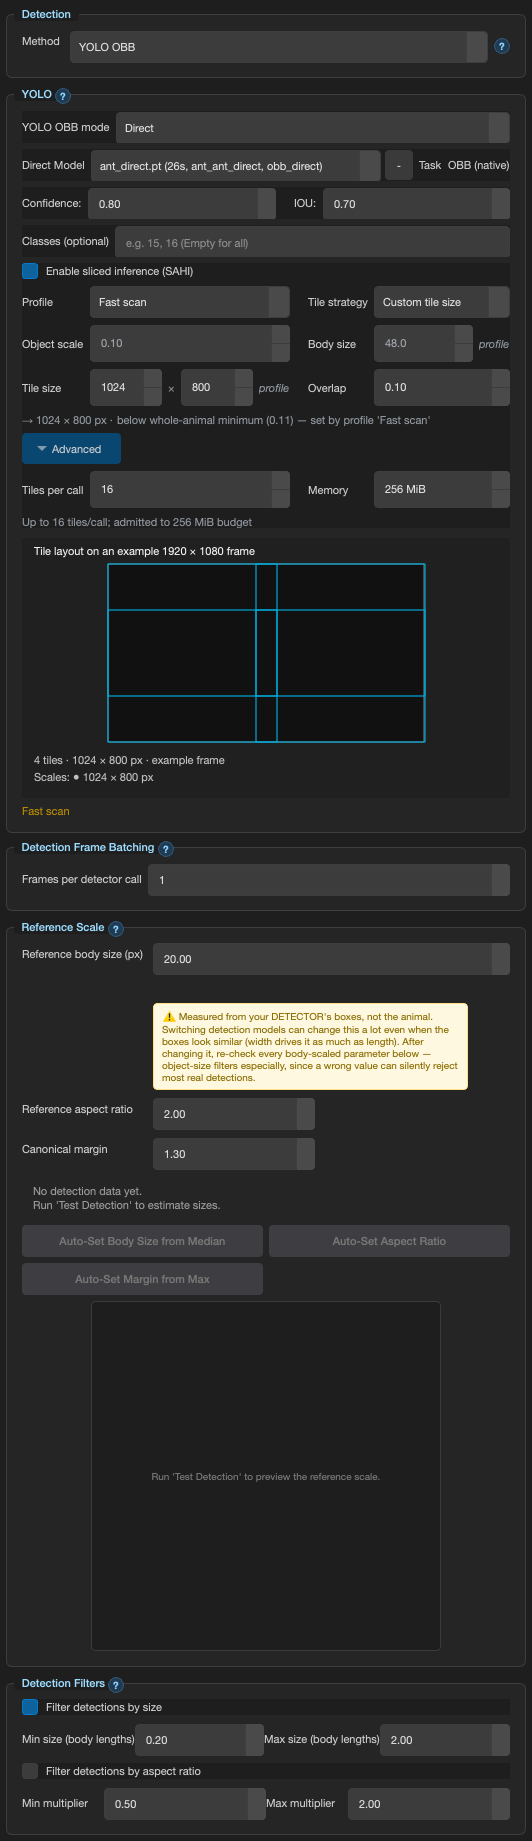
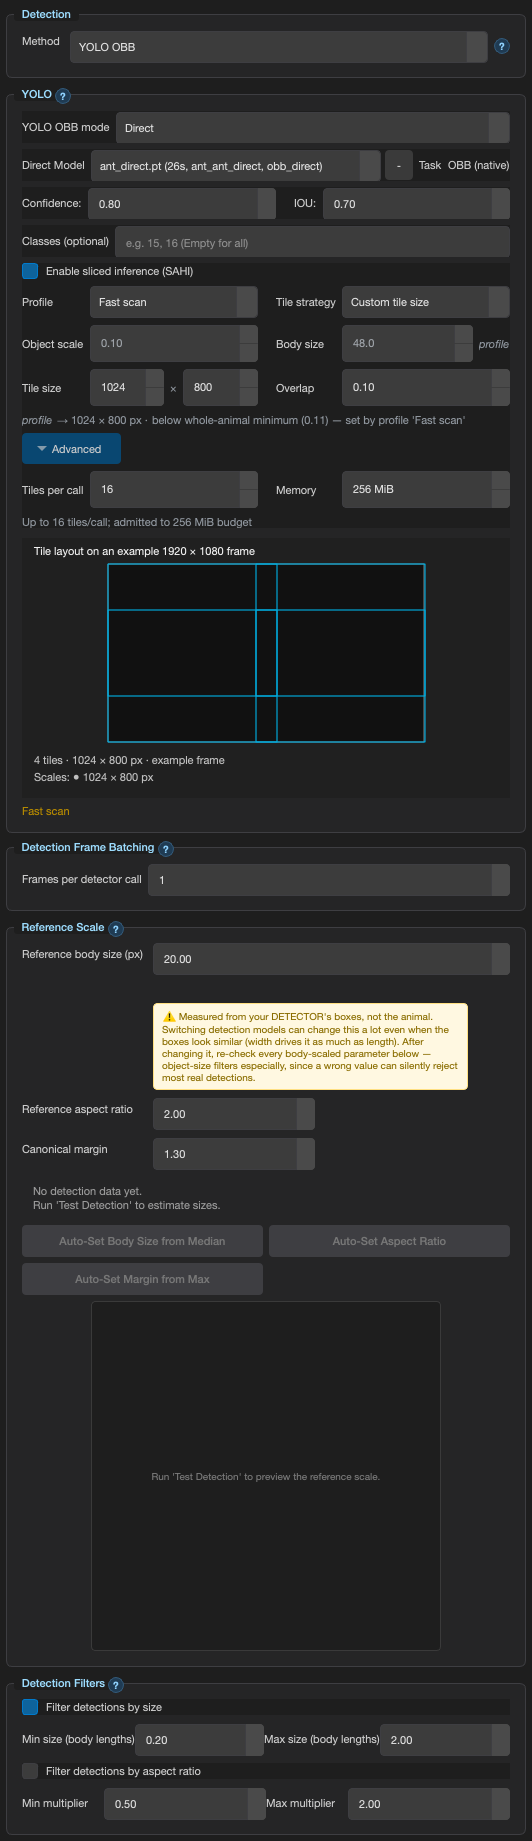
docs: TrackerKit auto_model gallery shot; tile badge on the summary line
Adds host_trackerkit_auto_model.png ("Use model input size", the longest
tile-strategy item, shown unclipped) and regenerates host_trackerkit.png /
host_trackerkit_custom.png; every DetectKit/role PNG and
host_trackerkit_off.png are byte-identical. sahi-settings.md: the tile
size's badge now starts the summary line.

diff --git a/tools/sahi_widget_gallery.py b/tools/sahi_widget_gallery.py
@@ -12,8 +12,10 @@ published model leaks into the pictures. Writes PNGs into ``--out``:
   sidecar with two calibration profiles): ``host_trackerkit.png`` on the
   primary profile with a loaded 2448 x 2048 video's frame size,
   ``host_trackerkit_custom.png`` on the custom-geometry profile with Advanced
-  expanded and no video (the labelled example frame), and
-  ``host_trackerkit_off.png`` with SAHI unticked (collapsed to the checkbox).
+  expanded and no video (the labelled example frame),
+  ``host_trackerkit_auto_model.png`` on "Use model input size" (the longest
+  tile-strategy item, unclipped), and ``host_trackerkit_off.png`` with SAHI
+  unticked (collapsed to the checkbox).
   TrackerKit uses the compact layout (``layout="compact"``: paired rows, one
   summary line) with the preview below the controls (``preview_position``).
 
@@ -405,6 +407,17 @@ def render_trackerkit(out: Path, app, root: Path) -> list[Path]:
     written.append(
         _grab_scroll_page(
             window, panel.slice_settings, out / "host_trackerkit_custom.png", app
+        )
+    )
+    # The longest Tile strategy item must show unclipped in its half-width
+    # column (review regression).
+    geometry = panel.combo_slice_geometry
+    geometry.setCurrentIndex(geometry.findData("auto_model"))  # the user path
+    panel.slice_settings.btn_slice_advanced.setChecked(False)
+    _assert_yolo_page(panel)
+    written.append(
+        _grab_scroll_page(
+            window, panel.slice_settings, out / "host_trackerkit_auto_model.png", app
         )
     )
     panel.chk_slice_enabled.setChecked(False)  # the user path: collapses

diff --git a/tests/test_sahi_widget_gallery.py b/tests/test_sahi_widget_gallery.py
@@ -27,6 +27,7 @@ EXPECTED = (
         "host_sam2_escalation.png",
         "host_trackerkit.png",
         "host_trackerkit_custom.png",
+        "host_trackerkit_auto_model.png",
         "host_trackerkit_off.png",
     ]
 )

diff --git a/docs/user-guide/sahi-settings.md b/docs/user-guide/sahi-settings.md
@@ -181,10 +181,11 @@ panel without sideways scrolling:
 - Related fields share a row: Profile | Tile strategy, Object scale | Body
   size, Tile size | Overlap, and (under Advanced) Tiles per call | Memory. A
   field whose partner is not shown (for example, no profile row) stands alone
-  at the left. Source badges (`profile`, `derived` ...) stay next to their
-  field.
+  at the left. The body size's source badge (`profile`, `stamped` ...) stays
+  next to its field; the tile size's badge (`derived`, `profile` ...) starts
+  the summary line, right before the resolved tile size.
 - The derived values are one muted summary line under the fields, for
-  example `→ 480 × 480 px · ≈102 px at 1024 · ≥ whole-animal minimum (0.15)`:
+  example `derived → 480 × 480 px · ≈102 px at 1024 · ≥ whole-animal minimum (0.15)`:
   the resolved tile size, the object's size at the model input (Fit to animal
   size only) and the overlap check. The line shortens when the panel is narrow;
   hover it for the full text. A below-minimum warning keeps its orange colour
